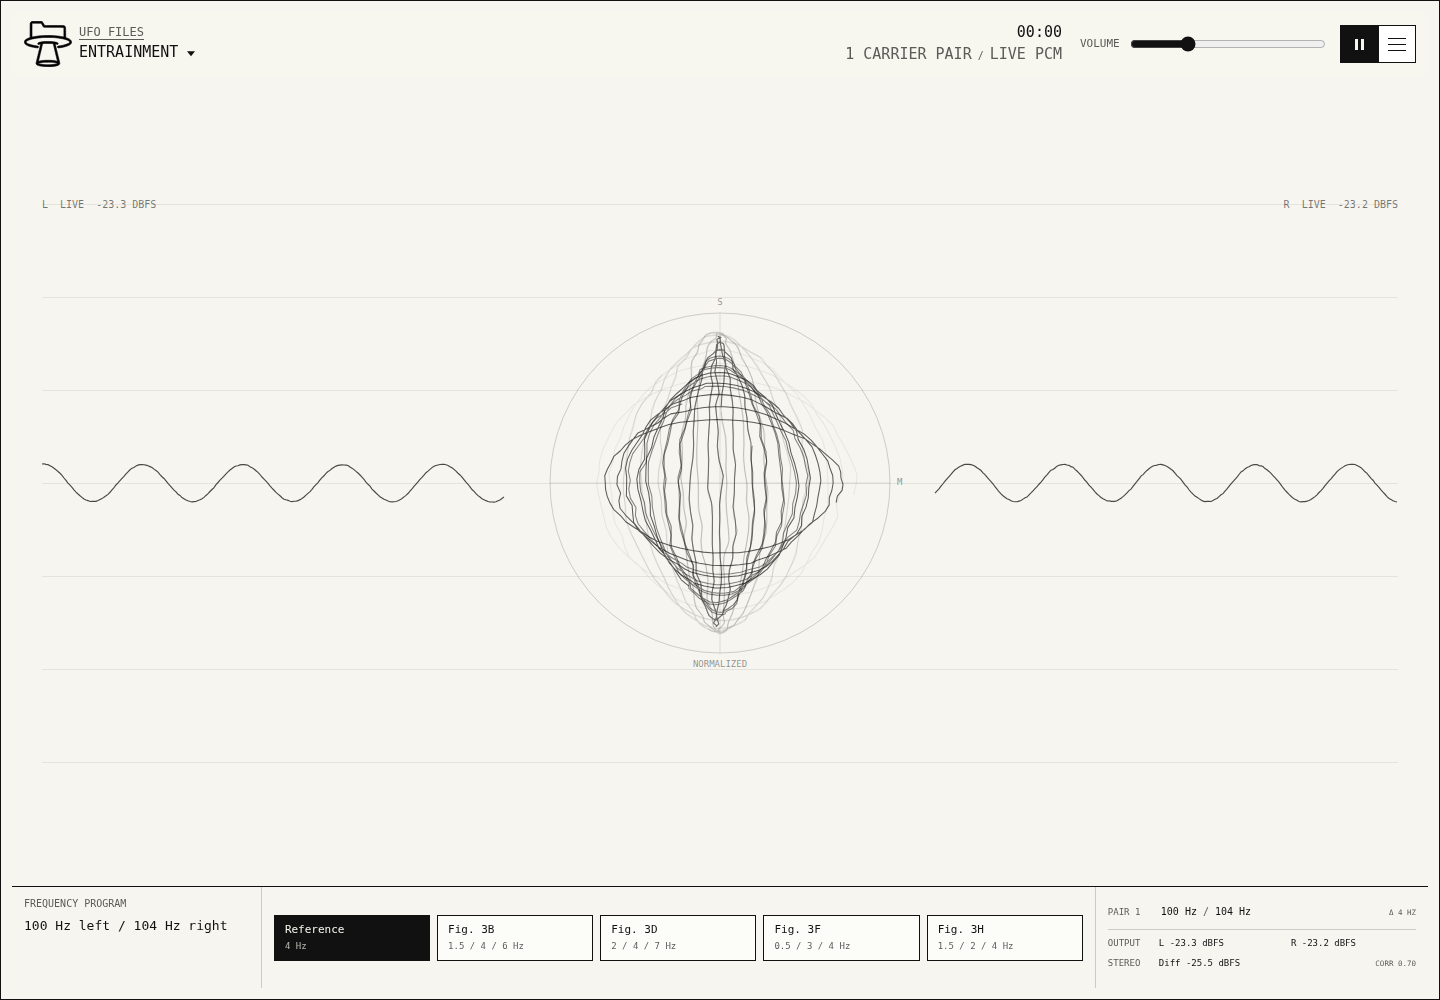
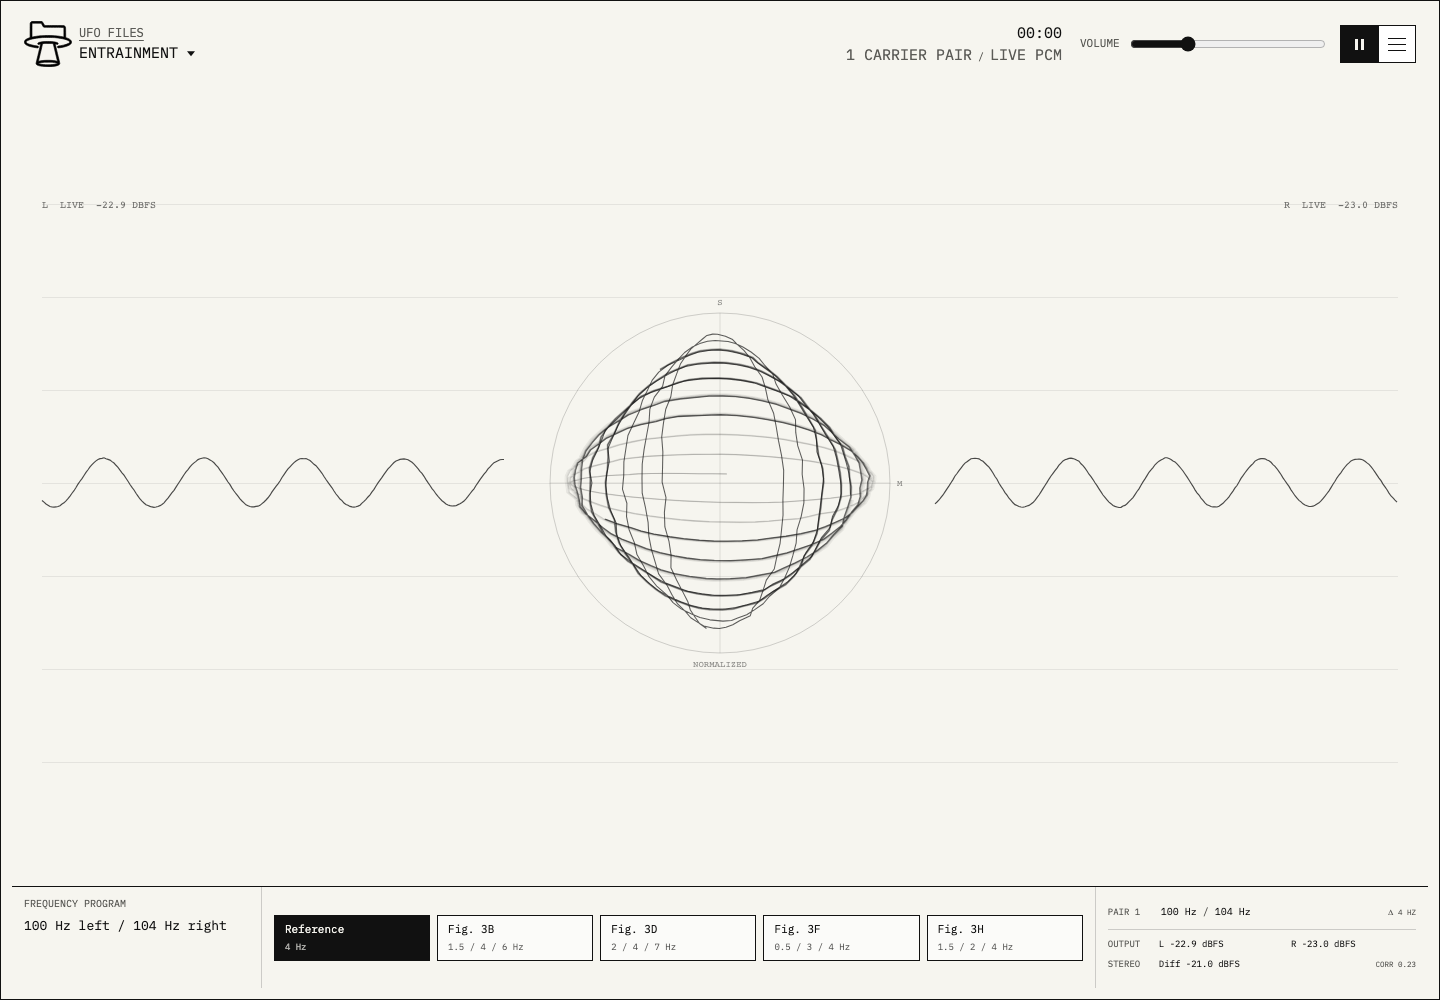
Remove spatial HRTF motion artifacts

diff --git a/audio-engine.js b/audio-engine.js
@@ -7,6 +7,9 @@ import {
 } from "./audio-model.js";
 
 const AudioContextClass = () => window.AudioContext || window.webkitAudioContext;
+const SPATIAL_POSITION_COUNT = 12;
+const SPATIAL_CONTROL_HARMONICS = 32;
+const SPATIAL_CONTROL_TABLE_SIZE = 1024;
 
 function setParam(param, value, context, ramp = 0.04) {
   const now = context.currentTime;
@@ -224,59 +227,83 @@ export class AudioEngine {
 
   createSpatializer(config) {
     const cycleFrequency = 1 / config.panCycleSeconds;
-    const panner = this.context.createPanner();
-    panner.panningModel = "HRTF";
-    panner.distanceModel = "inverse";
-    panner.refDistance = 1;
-    panner.maxDistance = 10;
-    panner.rolloffFactor = 0;
+    const input = this.context.createGain();
+    const output = this.context.createGain();
+    const nodes = [input, output];
+    const sources = [];
+    const stepAngle = (Math.PI * 2) / SPATIAL_POSITION_COUNT;
+    output.gain.value = 0.66;
 
-    if (panner.positionX && panner.positionZ) {
-      const xLfo = this.context.createOscillator();
-      const zLfo = this.context.createOscillator();
-      const xDepth = this.context.createGain();
-      const zDepth = this.context.createGain();
-      const cosine = this.context.createPeriodicWave(
-        new Float32Array([0, 1]),
-        new Float32Array([0, 0]),
-        { disableNormalization: true },
-      );
-      xLfo.type = "sine";
-      zLfo.setPeriodicWave(cosine);
-      xLfo.frequency.value = cycleFrequency;
-      zLfo.frequency.value = cycleFrequency;
-      xDepth.gain.value = 1.4;
-      zDepth.gain.value = 1.4;
+    for (let index = 0; index < SPATIAL_POSITION_COUNT; index += 1) {
+      const angle = index * stepAngle;
+      const panner = this.context.createPanner();
+      const gain = this.context.createGain();
+      const lfo = this.context.createOscillator();
+      const control = this.createSpatialWeightWave(angle, stepAngle);
+
+      panner.panningModel = "HRTF";
+      panner.distanceModel = "inverse";
+      panner.refDistance = 1;
+      panner.maxDistance = 10;
+      panner.rolloffFactor = 0;
+      panner.positionX.value = Math.sin(angle) * 1.4;
       panner.positionY.value = 0;
-      xLfo.connect(xDepth);
-      zLfo.connect(zDepth);
-      xDepth.connect(panner.positionX);
-      zDepth.connect(panner.positionZ);
-      xLfo.start();
-      zLfo.start();
-      return {
-        input: panner,
-        output: panner,
-        nodes: [panner, xDepth, zDepth],
-        sources: [xLfo, zLfo],
-        motion: { oscillators: [xLfo, zLfo] },
-      };
+      panner.positionZ.value = -Math.cos(angle) * 1.4;
+      gain.gain.value = control.mean;
+      lfo.setPeriodicWave(control.wave);
+      lfo.frequency.value = cycleFrequency;
+
+      input.connect(panner);
+      panner.connect(gain);
+      gain.connect(output);
+      lfo.connect(gain.gain);
+      lfo.start();
+      nodes.push(panner, gain);
+      sources.push(lfo);
     }
 
-    const fallback = this.context.createStereoPanner();
-    const panLfo = this.context.createOscillator();
-    const panDepth = this.context.createGain();
-    panLfo.frequency.value = cycleFrequency;
-    panDepth.gain.value = 0.92;
-    panLfo.connect(panDepth);
-    panDepth.connect(fallback.pan);
-    panLfo.start();
     return {
-      input: fallback,
-      output: fallback,
-      nodes: [fallback, panDepth],
-      sources: [panLfo],
-      motion: { oscillators: [panLfo] },
+      input,
+      output,
+      nodes,
+      sources,
+      motion: { oscillators: sources },
+    };
+  }
+
+  createSpatialWeightWave(centerAngle, stepAngle) {
+    const values = new Float64Array(SPATIAL_CONTROL_TABLE_SIZE);
+    let mean = 0;
+    for (let index = 0; index < values.length; index += 1) {
+      const angle = (index * Math.PI * 2) / values.length;
+      const distance = Math.abs(Math.atan2(
+        Math.sin(angle - centerAngle),
+        Math.cos(angle - centerAngle),
+      ));
+      const value = distance <= stepAngle
+        ? Math.cos((distance / stepAngle) * Math.PI / 2)
+        : 0;
+      values[index] = value;
+      mean += value / values.length;
+    }
+
+    const real = new Float32Array(SPATIAL_CONTROL_HARMONICS + 1);
+    const imaginary = new Float32Array(SPATIAL_CONTROL_HARMONICS + 1);
+    for (let harmonic = 1; harmonic <= SPATIAL_CONTROL_HARMONICS; harmonic += 1) {
+      let cosine = 0;
+      let sine = 0;
+      for (let index = 0; index < values.length; index += 1) {
+        const phase = (index * Math.PI * 2) / values.length;
+        cosine += values[index] * Math.cos(harmonic * phase);
+        sine += values[index] * Math.sin(harmonic * phase);
+      }
+      real[harmonic] = (2 * cosine) / values.length;
+      imaginary[harmonic] = (2 * sine) / values.length;
+    }
+
+    return {
+      mean,
+      wave: this.context.createPeriodicWave(real, imaginary, { disableNormalization: true }),
     };
   }
 

diff --git a/tests/browser/app.spec.js b/tests/browser/app.spec.js
@@ -77,3 +77,45 @@ test("mobile drawers remain inside the viewport", async ({ page }) => {
   expect(controlsBox.x).toBeGreaterThanOrEqual(0);
   expect(controlsBox.x + controlsBox.width).toBeLessThanOrEqual(390);
 });
+
+test("spatial HRTF motion remains free of sample discontinuities", async ({ page }) => {
+  await page.goto("/");
+  const metrics = await page.evaluate(async () => {
+    const { AudioEngine } = await import("/audio-engine.js");
+    const sampleRate = 48000;
+    const context = new OfflineAudioContext(2, sampleRate * 4, sampleRate);
+    const engine = new AudioEngine();
+    engine.context = context;
+    const spatializer = engine.createSpatializer({ panCycleSeconds: 24 });
+    const oscillator = context.createOscillator();
+    const gain = context.createGain();
+    oscillator.frequency.value = 100;
+    gain.gain.value = 0.34;
+    oscillator.connect(gain);
+    gain.connect(spatializer.input);
+    spatializer.output.connect(context.destination);
+    oscillator.start();
+    const buffer = await context.startRendering();
+
+    return [0, 1].map((channel) => {
+      const samples = buffer.getChannelData(channel);
+      let roughness = 0;
+      let maxJump = 0;
+      for (let index = 2; index < samples.length; index += 1) {
+        const jump = samples[index] - samples[index - 1];
+        const previousJump = samples[index - 1] - samples[index - 2];
+        roughness += (jump - previousJump) ** 2;
+        maxJump = Math.max(maxJump, Math.abs(jump));
+      }
+      return {
+        roughness: Math.sqrt(roughness / samples.length),
+        maxJump,
+      };
+    });
+  });
+
+  for (const channel of metrics) {
+    expect(channel.roughness).toBeLessThan(0.00015);
+    expect(channel.maxJump).toBeLessThan(0.015);
+  }
+});

diff --git a/README.md b/README.md
@@ -68,11 +68,12 @@ count. This is the patent-inspired signal path and remains the default.
 Spatial mode is an app-defined alternate presentation, not a behavior specified
 by the patent. Each configured base carrier is amplitude-contoured at its
 corresponding difference frequency. The carriers are summed to mono, then a Web
-Audio `PannerNode` with `panningModel = "HRTF"` moves the carrier field on a
-constant-radius horizontal orbit around the listener. Browsers without
-automatable HRTF coordinates fall back to equal-power stereo panning. HRTF
-rendering is platform-dependent, so the final PCM telemetry is the authoritative
-view of what the browser produced.
+Audio `PannerNode` bank with `panningModel = "HRTF"` places the carrier field at
+12 fixed points on a constant-radius horizontal orbit. Equal-power control
+curves crossfade adjacent positions to create continuous motion without asking
+the browser to recalculate an audible HRTF filter in place. HRTF rendering is
+platform-dependent, so the final PCM telemetry is the authoritative view of
+what the browser produced.
 
 The pink layer uses seeded, deterministic pink-noise samples. A low-frequency
 cycle modulates stereo panning and filter frequency. The UI constrains the layer